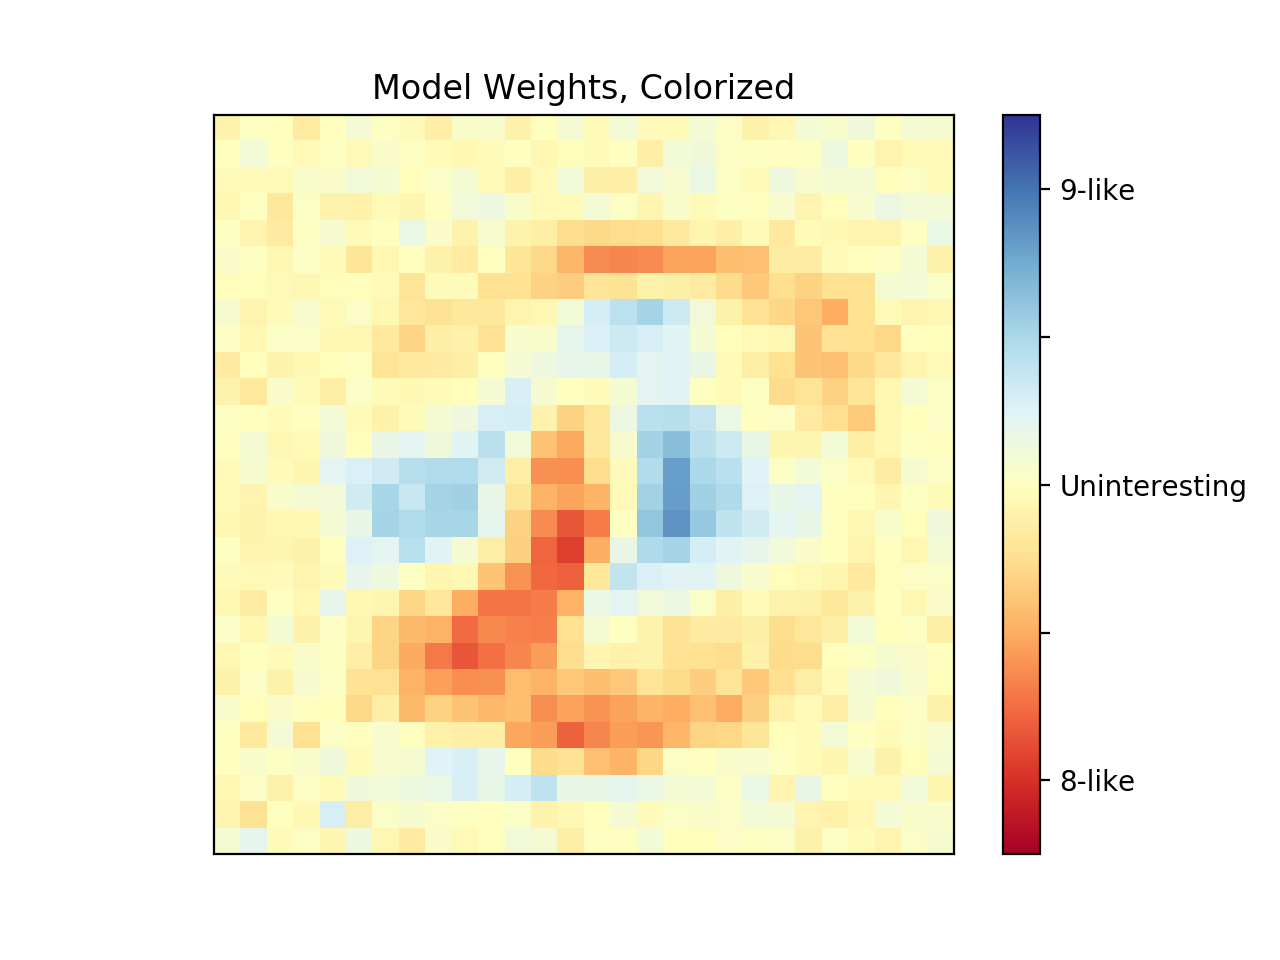
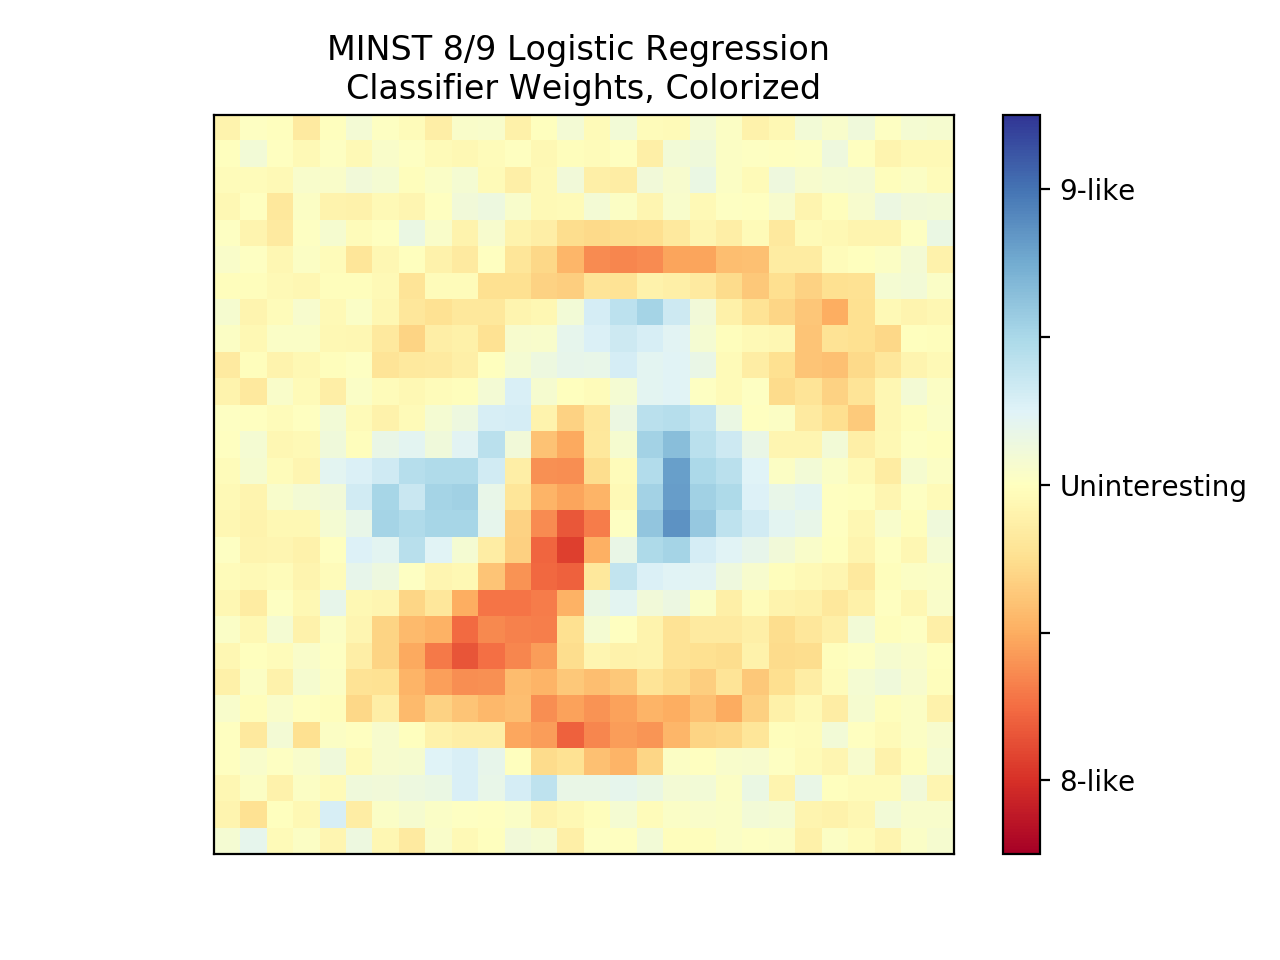
text on 1e finished

Changed region(s): [[0.25, 0.0312, 0.6562, 0.125]]

diff --git a/p1/p1.py b/p1/p1.py
@@ -219,9 +219,9 @@ def interpretLearnedWeights():
     img = cur_ax.imshow(weights.reshape(28, 28), interpolation='nearest', vmin=-0.5, vmax=0.5, cmap='RdYlBu')
     cur_ax.set_xticks([])
     cur_ax.set_yticks([])
-    cur_ax.set_title('Model Weights, Colorized')
+    cur_ax.set_title('MINST 8/9 Logistic Regression \nClassifier Weights, Colorized')
     cbar = plt.colorbar(img)
-    cbar.ax.set_yticklabels(['8-like', '', 'Uninteresting', '', '9-like'])
+    cbar.ax.set_yticklabels(['-0.5\n8-like', '', '0.0\nUninteresting', '', '0.5\n9-like'])
     plt.show()
 
 

diff --git a/p1/p1.md b/p1/p1.md
@@ -46,5 +46,10 @@ TODO: Reshape the weight coefficients into a (28 × 28) matrix, corresponding to
 TODO:
 
 - Which pixels have negative weights, and thus have high-intensity values correspond to the negative class ('8')?
+  **Answer**: Areas with negative weights include the outer-curves of the image and a sickle-shaped region starting at true center, diagonally stretching down towards the lower left corner, then curving back up and over towards the right side of the image to connect with that upper-, outer-curve.
+
 - Which pixels have positive weights, and thus have high-intensity values correspond to the positive class ('9')?
+  **Answer**: Areas with high positive weights include the middle-left and middle-right of the image, encased inside the outer-curves with negative weights, as well as a small region just below the head of the sickle in the bottom-left of the image.
+
 - Why do you think this is the case?
+  **Answer**: With respect to the negative weights, the loops of the eights I think tend to balloon out, resulting in the outer cureves. Additionally, the negative diagonal region is due to the final-stroke of the eight typically cutting straight across looped regions to close the figure where the initial pen-placement occurs. With respect to the positive weights, I think the down-stroke of the nine typically cuts through a region of pixels that a loopy eight normally doesn't. Additionally, I think 9's with a large main loop will have a tendency to touch pixels in the middle-left that, on the final diagonal stroke of the eight, typically aren't active in 8 images.
